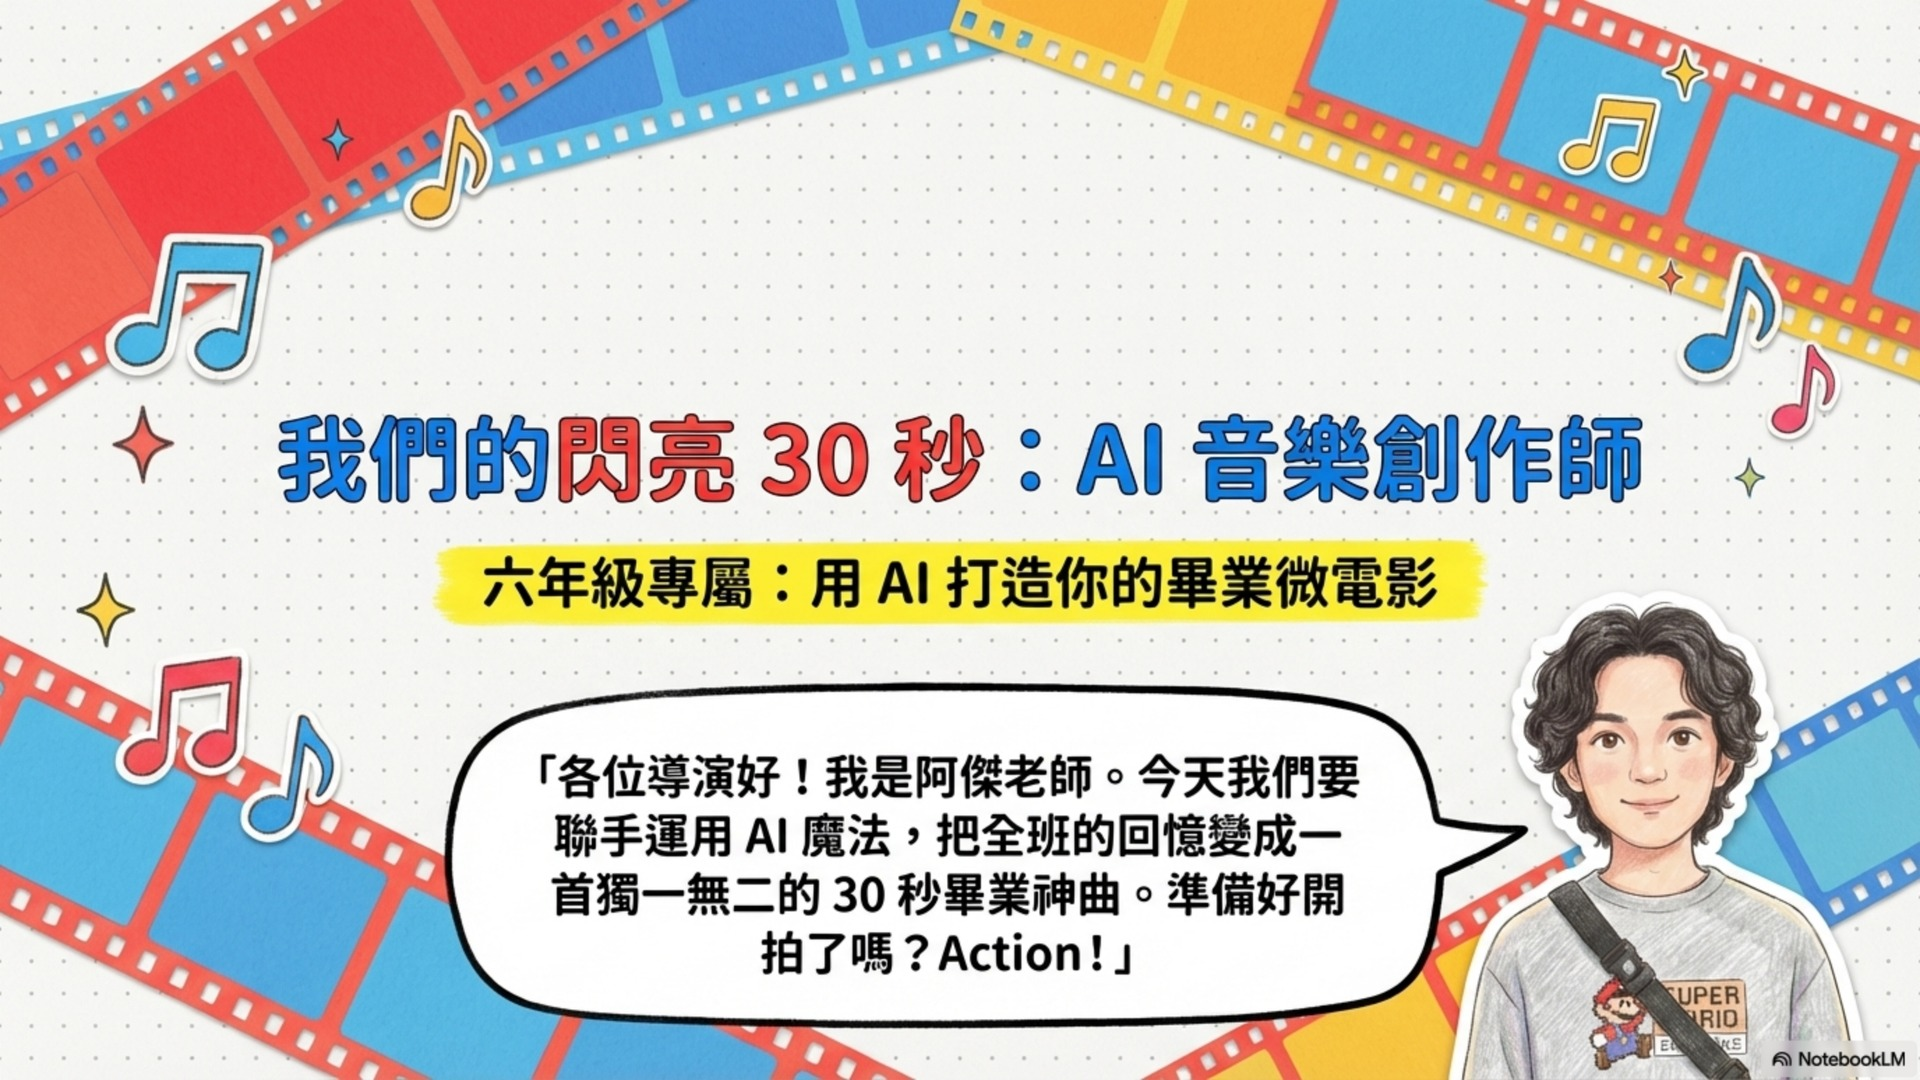
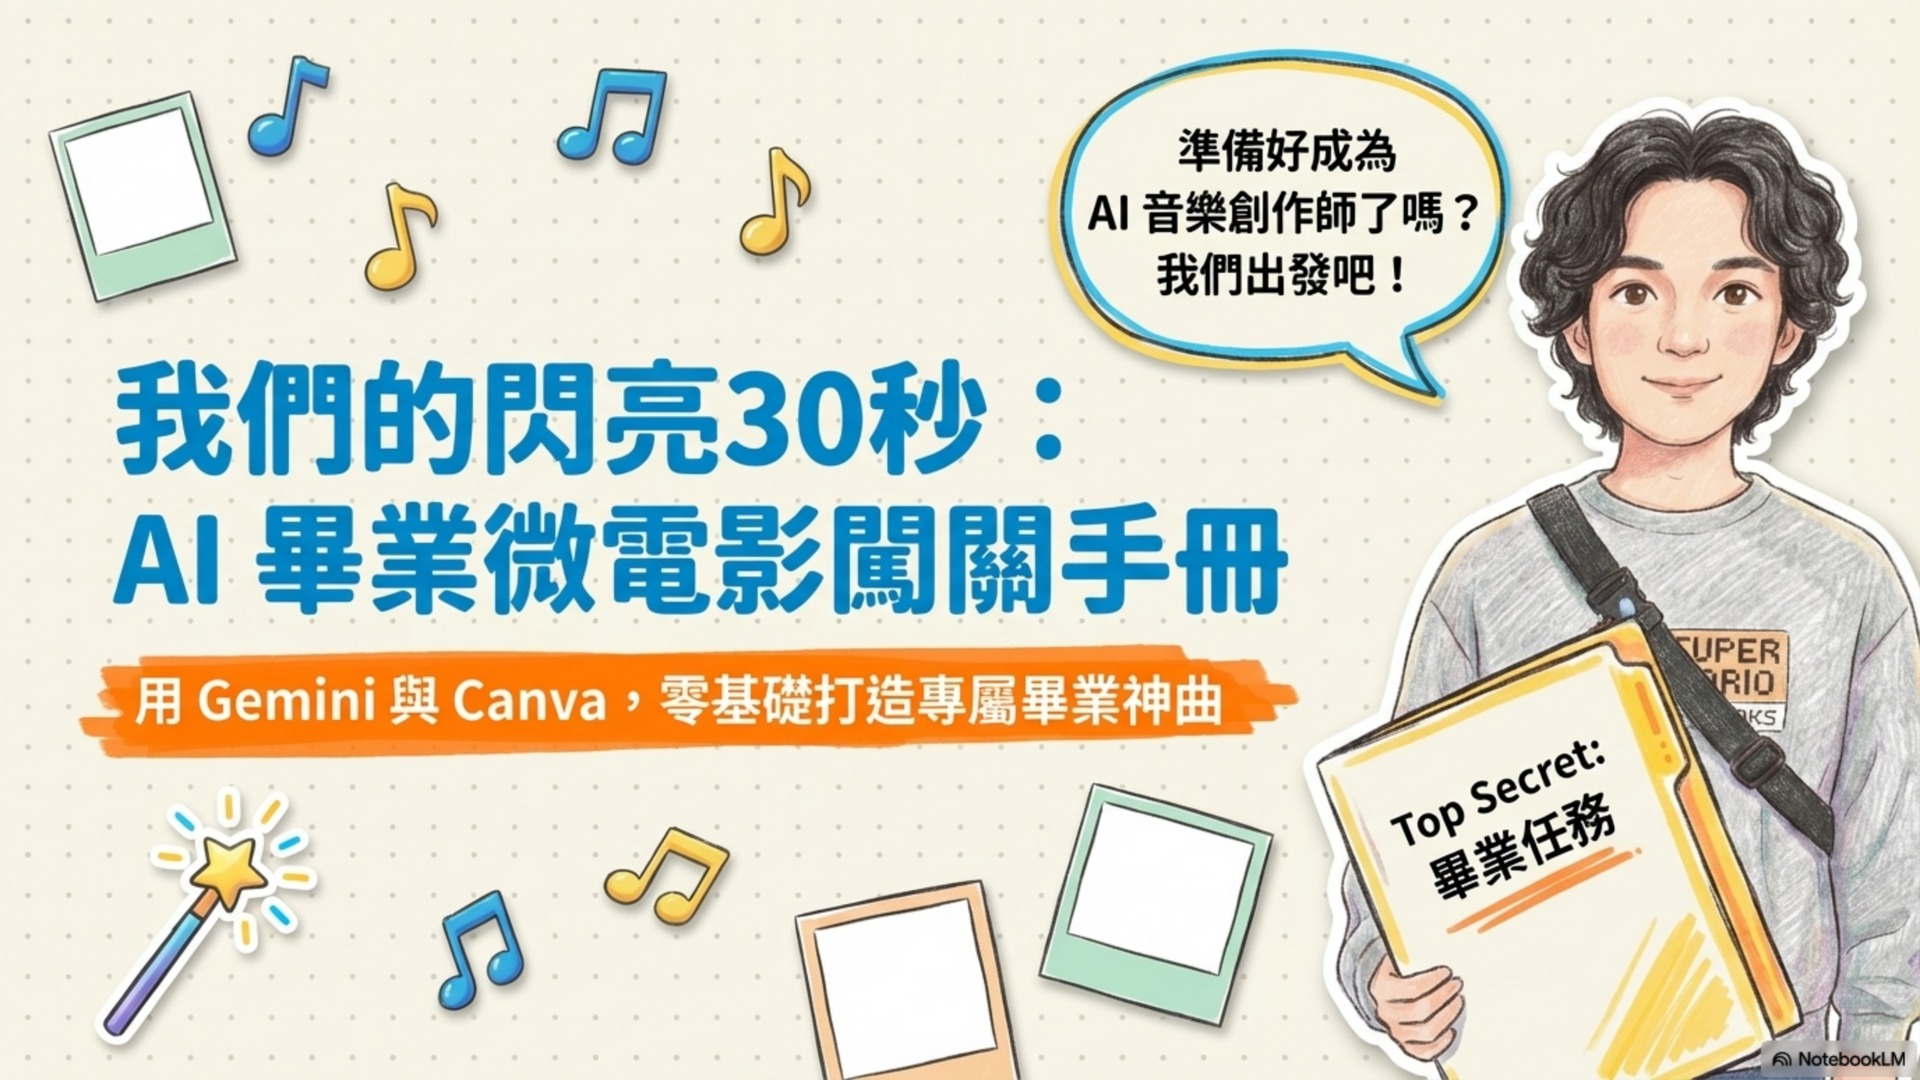
feat: 最短 focus_prompt 讓主講者多樣化，更新簡報為12頁
使用精簡本(2來源) + 最短 focus_prompt「按資料內容生成簡報，並確保主講者出現在各頁中」
主講者水彩插圖每頁位置/姿勢不同，角色一致且多樣
頁數從15頁調整為12頁，HTML 簡報導覽同步更新

diff --git a/gemini-music/index.html b/gemini-music/index.html
@@ -1058,9 +1058,9 @@ canvas{
     <button onclick="slideNav(1)"  style="position:absolute;right:0;top:50%;transform:translateY(-50%);background:rgba(0,0,0,0.6);border:none;color:#fff;font-size:2rem;padding:12px 16px;cursor:pointer;">&#8250;</button>
   </div>
   <div style="display:flex;align-items:center;justify-content:center;gap:16px;margin-top:12px;">
-    <span style="font-size:0.9rem;color:var(--dim);">第 <span id="slide-cur">1</span> / 15 頁</span>
+    <span style="font-size:0.9rem;color:var(--dim);">第 <span id="slide-cur">1</span> / 12 頁</span>
     <div style="display:flex;flex-wrap:wrap;gap:6px;justify-content:center;">
-      <script>for(let i=1;i<=15;i++) document.write(`<button onclick="gotoSlide(${i})" id="sdot${i}" style="width:28px;height:28px;background:${i===1?'var(--c1)':'var(--surface)'};border:2px solid ${i===1?'var(--c1)':'var(--dim)'};color:${i===1?'#000':'var(--dim)'};font-size:0.75rem;cursor:pointer;">${i}</button>`);</script>
+      <script>for(let i=1;i<=12;i++) document.write(`<button onclick="gotoSlide(${i})" id="sdot${i}" style="width:28px;height:28px;background:${i===1?'var(--c1)':'var(--surface)'};border:2px solid ${i===1?'var(--c1)':'var(--dim)'};color:${i===1?'#000':'var(--dim)'};font-size:0.75rem;cursor:pointer;">${i}</button>`);</script>
     </div>
   </div>
 </div>
@@ -1657,12 +1657,12 @@ function runLottery(){
 // ===================== SLIDE NAV =====================
 let slideIdx = 1;
 function gotoSlide(n) {
-  slideIdx = Math.max(1, Math.min(15, n));
+  slideIdx = Math.max(1, Math.min(12, n));
   const num = slideIdx.toString().padStart(2,'0');
   document.getElementById('slide-img').src = 'assets/slide_'+num+'.jpg';
   document.getElementById('slide-img').alt = '投影片 '+slideIdx;
   document.getElementById('slide-cur').textContent = slideIdx;
-  for(let i=1;i<=15;i++){
+  for(let i=1;i<=12;i++){
     const btn = document.getElementById('sdot'+i);
     if(btn){
       btn.style.background = i===slideIdx?'var(--c1)':'var(--surface)';
